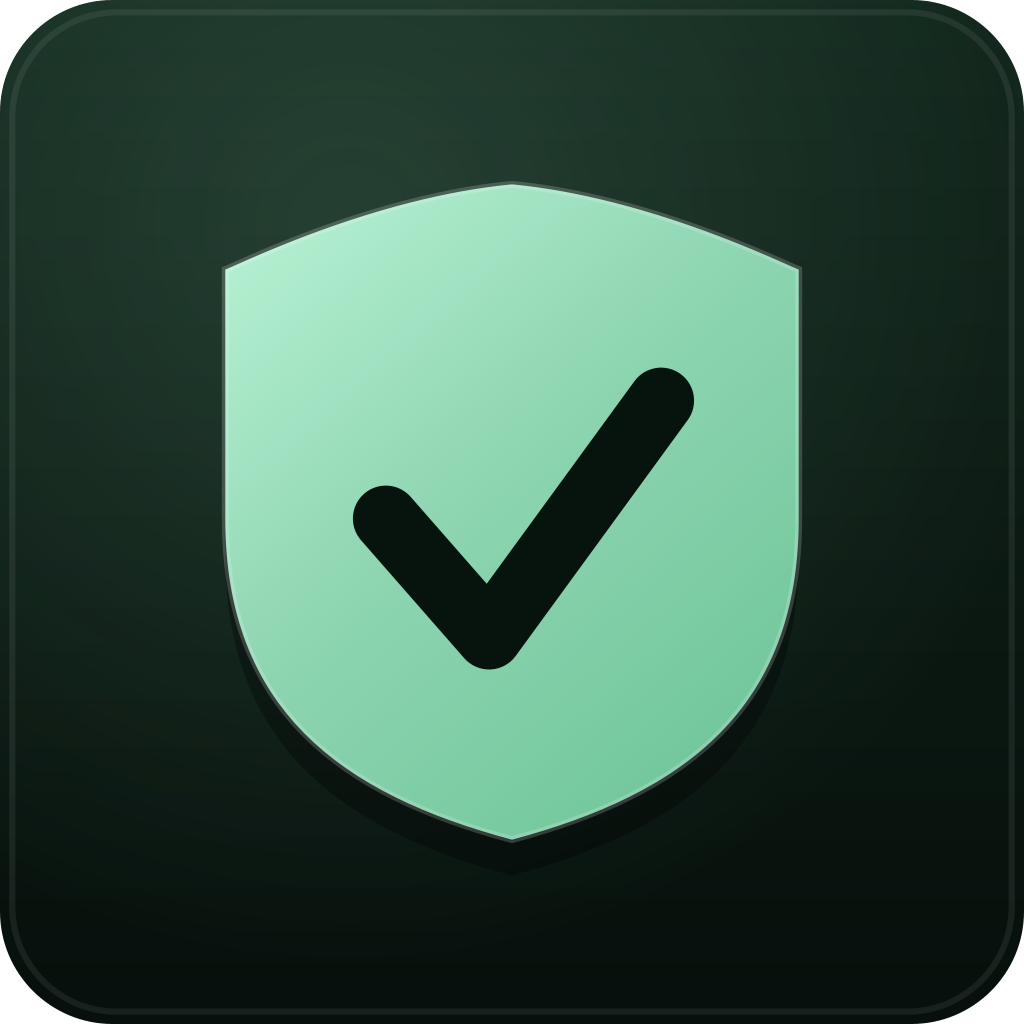
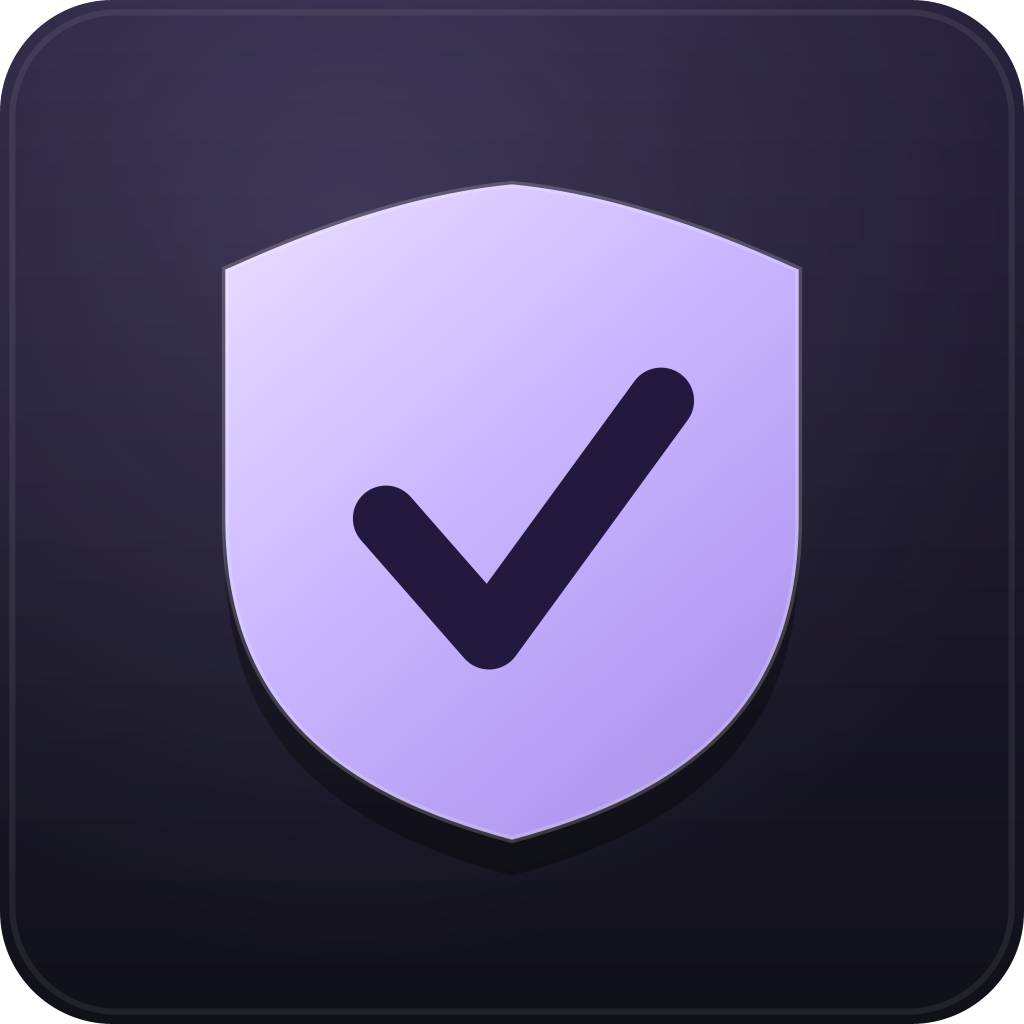
Unify Android and desktop dark themes with the dashboard

diff --git a/src/com/dino/holeshield/Ui.java b/src/com/dino/holeshield/Ui.java
@@ -15,7 +15,6 @@ import android.graphics.drawable.Drawable;
 import android.graphics.drawable.GradientDrawable;
 import android.graphics.drawable.LayerDrawable;
 import android.graphics.drawable.StateListDrawable;
-import android.os.Build;
 import android.util.TypedValue;
 import android.view.Gravity;
 import android.view.View;
@@ -30,43 +29,40 @@ import android.widget.Toast;
 /**
  * Small helpers for the programmatic, D-pad and touch UI.
  *
- * The colour tokens follow Material 3. On Android 12+ they are taken from the
- * system's dynamic ("Material You") tonal palettes; older devices use a dark
- * Material 3 scheme generated from the Hole Shield green seed colour. The app is
- * deliberately always dark and keeps the same visual language on TV and phone.
+ * Material 3 roles with fixed palettes for consistent phone and TV styling.
  */
 final class Ui {
 
-    // Material 3 dark scheme generated from the Hole Shield seed colour #34D399.
-    private static final int F_PRIMARY = 0xFF8ED5B2;
-    private static final int F_ON_PRIMARY = 0xFF003825;
-    private static final int F_PRIMARY_CONTAINER = 0xFF005137;
-    private static final int F_ON_PRIMARY_CONTAINER = 0xFFA9F2CD;
-    private static final int F_SECONDARY = 0xFFB4CCBD;
-    private static final int F_ON_SECONDARY = 0xFF1F352A;
-    private static final int F_SECONDARY_CONTAINER = 0xFF364B40;
-    private static final int F_ON_SECONDARY_CONTAINER = 0xFFCFE9D9;
-    private static final int F_TERTIARY = 0xFFA5CCDE;
-    private static final int F_ON_TERTIARY = 0xFF073543;
-    private static final int F_TERTIARY_CONTAINER = 0xFF244C5A;
-    private static final int F_ON_TERTIARY_CONTAINER = 0xFFC1E9FB;
-    private static final int F_ERROR = 0xFFFFB4AB;
-    private static final int F_ON_ERROR = 0xFF690005;
-    private static final int F_ERROR_CONTAINER = 0xFF93000A;
-    private static final int F_ON_ERROR_CONTAINER = 0xFFFFDAD6;
-    private static final int F_SURFACE = 0xFF0F1511;
-    private static final int F_ON_SURFACE = 0xFFDEE4DE;
-    private static final int F_SURFACE_VARIANT = 0xFF404943;
-    private static final int F_ON_SURFACE_VARIANT = 0xFFBFC9C1;
-    private static final int F_SURFACE_LOWEST = 0xFF0A0F0C;
-    private static final int F_SURFACE_LOW = 0xFF171D19;
-    private static final int F_SURFACE_CONTAINER = 0xFF1B211D;
-    private static final int F_SURFACE_HIGH = 0xFF252B28;
-    private static final int F_SURFACE_HIGHEST = 0xFF303632;
-    private static final int F_OUTLINE = 0xFF8A938C;
-    private static final int F_OUTLINE_VARIANT = 0xFF404943;
+    // Graphite and violet dark palette, also used by the web dashboard.
+    private static final int F_PRIMARY = 0xFFC9B5FF;
+    private static final int F_ON_PRIMARY = 0xFF23183D;
+    private static final int F_PRIMARY_CONTAINER = 0xFF35275C;
+    private static final int F_ON_PRIMARY_CONTAINER = 0xFFEADFFF;
+    private static final int F_SECONDARY = 0xFFA7BFFF;
+    private static final int F_ON_SECONDARY = 0xFF152544;
+    private static final int F_SECONDARY_CONTAINER = 0xFF222F52;
+    private static final int F_ON_SECONDARY_CONTAINER = 0xFFDBE5FF;
+    private static final int F_TERTIARY = 0xFFF5C98B;
+    private static final int F_ON_TERTIARY = 0xFF422905;
+    private static final int F_TERTIARY_CONTAINER = 0xFF493019;
+    private static final int F_ON_TERTIARY_CONTAINER = 0xFFFFDDB1;
+    private static final int F_ERROR = 0xFFFFACA9;
+    private static final int F_ON_ERROR = 0xFF551A24;
+    private static final int F_ERROR_CONTAINER = 0xFF4F212F;
+    private static final int F_ON_ERROR_CONTAINER = 0xFFFFD9D7;
+    private static final int F_SURFACE = 0xFF11111A;
+    private static final int F_ON_SURFACE = 0xFFF2EDF9;
+    private static final int F_SURFACE_VARIANT = 0xFF2C2B3D;
+    private static final int F_ON_SURFACE_VARIANT = 0xFFBDB7CC;
+    private static final int F_SURFACE_LOWEST = 0xFF0D0D14;
+    private static final int F_SURFACE_LOW = 0xFF15151F;
+    private static final int F_SURFACE_CONTAINER = 0xFF191923;
+    private static final int F_SURFACE_HIGH = 0xFF202031;
+    private static final int F_SURFACE_HIGHEST = 0xFF29293D;
+    private static final int F_OUTLINE = 0xFF938AA9;
+    private static final int F_OUTLINE_VARIANT = 0xFF36334A;
 
-    // Material 3 light scheme generated from the same seed.
+    // Keep the existing Material 3 light scheme.
     private static final int L_PRIMARY = 0xFF1B7F5C;
     private static final int L_ON_PRIMARY = 0xFFFFFFFF;
     private static final int L_PRIMARY_CONTAINER = 0xFFA9F2CD;
@@ -138,7 +134,6 @@ final class Ui {
     static int AMBER;       // tertiary / paused
     static int RED;         // error
 
-    private static String paletteKey = "";
     /** True when the current palette is dark. */
     static boolean dark = true;
 
@@ -146,7 +141,7 @@ final class Ui {
     static boolean compact = false;
 
     static {
-        setFallback();
+        setDark();
     }
 
     private Ui() { }
@@ -155,7 +150,7 @@ final class Ui {
         compact = on;
     }
 
-    private static void setFallback() {
+    private static void setDark() {
         PRIMARY = F_PRIMARY;
         ON_PRIMARY = F_ON_PRIMARY;
         PRIMARY_CONTAINER = F_PRIMARY_CONTAINER;
@@ -237,98 +232,12 @@ final class Ui {
      * Loads the current Material 3 palette. Returns true when the palette
      * differs from the one already applied to this process.
      */
-    static boolean init(Context c, boolean darkMode) {
-        if (!darkMode) {
-            boolean changed = !"light".equals(paletteKey);
-            setLight();
-            dark = false;
-            paletteKey = "light";
-            return changed;
-        }
-        dark = true;
-        // Dynamic colours are used for the accents; surfaces and text stay on
-        // the fixed dark Material 3 palette.
-        int primaryLight = systemColor(c, "system_accent1_200", F_PRIMARY);
-        int primaryDark = systemColor(c, "system_accent1_800", F_ON_PRIMARY);
-        int primary = lighter(primaryLight, primaryDark);
-        int onPrimary = darker(primaryLight, primaryDark);
-
-        int secondaryLight = systemColor(c, "system_accent2_200", F_SECONDARY);
-        int secondaryDark = systemColor(c, "system_accent2_800", F_ON_SECONDARY);
-        int secondary = lighter(secondaryLight, secondaryDark);
-        int onSecondary = darker(secondaryLight, secondaryDark);
-
-        int tertiaryLight = systemColor(c, "system_accent3_200", F_TERTIARY);
-        int tertiaryDark = systemColor(c, "system_accent3_800", F_ON_TERTIARY);
-        int tertiary = lighter(tertiaryLight, tertiaryDark);
-        int onTertiary = darker(tertiaryLight, tertiaryDark);
-
-        int errorLight = systemColor(c, "system_error_200", F_ERROR);
-        int errorDark = systemColor(c, "system_error_800", F_ON_ERROR);
-        int error = lighter(errorLight, errorDark);
-        int onError = darker(errorLight, errorDark);
-
-        int surface = F_SURFACE;
-        int onSurface = F_ON_SURFACE;
-
-        String key = "dark:" + Integer.toHexString(primary) + ':'
-                + Integer.toHexString(secondary) + ':'
-                + Integer.toHexString(tertiary) + ':'
-                + Integer.toHexString(error) + ':'
-                + Integer.toHexString(surface) + ':'
-                + Integer.toHexString(onSurface);
-        boolean changed = !key.equals(paletteKey);
-
-        PRIMARY = primary;
-        ON_PRIMARY = onPrimary;
-        PRIMARY_CONTAINER = onPrimary;
-        ON_PRIMARY_CONTAINER = primary;
-        SECONDARY = secondary;
-        ON_SECONDARY = onSecondary;
-        SECONDARY_CONTAINER = onSecondary;
-        ON_SECONDARY_CONTAINER = secondary;
-        TERTIARY = tertiary;
-        ON_TERTIARY = onTertiary;
-        TERTIARY_CONTAINER = onTertiary;
-        ON_TERTIARY_CONTAINER = tertiary;
-        ERROR = error;
-        ON_ERROR = onError;
-        ERROR_CONTAINER = onError;
-        ON_ERROR_CONTAINER = error;
-        SURFACE = surface;
-        ON_SURFACE = onSurface;
-        SURFACE_VARIANT = F_SURFACE_VARIANT;
-        ON_SURFACE_VARIANT = F_ON_SURFACE_VARIANT;
-        SURFACE_CONTAINER_LOWEST = F_SURFACE_LOWEST;
-        SURFACE_CONTAINER_LOW = F_SURFACE_LOW;
-        SURFACE_CONTAINER = F_SURFACE_CONTAINER;
-        SURFACE_CONTAINER_HIGH = F_SURFACE_HIGH;
-        SURFACE_CONTAINER_HIGHEST = F_SURFACE_HIGHEST;
-        OUTLINE = F_OUTLINE;
-        OUTLINE_VARIANT = F_OUTLINE_VARIANT;
-        syncAliases();
-        paletteKey = key;
-        return changed;
-    }
-
-    private static int lighter(int a, int b) {
-        return Color.luminance(a) >= Color.luminance(b) ? a : b;
-    }
-
-    private static int darker(int a, int b) {
-        return Color.luminance(a) <= Color.luminance(b) ? a : b;
-    }
-
-    private static int systemColor(Context c, String name, int fallback) {
-        if (Build.VERSION.SDK_INT < 31 || c == null) return fallback;
-        try {
-            int id = c.getResources().getIdentifier(name, "color", "android");
-            if (id == 0) return fallback;
-            int color = c.getColor(id);
-            return Color.alpha(color) == 0xFF ? color : fallback;
-        } catch (Exception ignored) {
-            return fallback;
-        }
+    static boolean init(boolean darkMode) {
+        if (dark == darkMode) return false;
+        if (darkMode) setDark();
+        else setLight();
+        dark = darkMode;
+        return true;
     }
 
     static int dp(Context c, float value) {

diff --git a/tools/IconDesigner.java b/tools/IconDesigner.java
@@ -18,11 +18,12 @@ import java.io.File;
  */
 public final class IconDesigner {
 
-    private static final Color BG_TOP = new Color(0x12261C);
-    private static final Color BG_BOTTOM = new Color(0x07100C);
-    private static final Color MINT_TOP = new Color(0xB9F4D6);
-    private static final Color MINT_BOTTOM = new Color(0x69C295);
-    private static final Color INK = new Color(0x07130D);
+    private static final Color BG_TOP = new Color(0x26203A);
+    private static final Color BG_BOTTOM = new Color(0x11111A);
+    private static final Color VIOLET_TOP = new Color(0xEADFFF);
+    private static final Color VIOLET = new Color(0xC9B5FF);
+    private static final Color VIOLET_BOTTOM = new Color(0xA68BE9);
+    private static final Color INK = new Color(0x23183D);
 
     private IconDesigner() { }
 
@@ -58,8 +59,7 @@ public final class IconDesigner {
         g.setClip(background);
         g.setPaint(new RadialGradientPaint(new Point2D.Double(s * 0.34, s * 0.22),
                 s * 0.72f, new float[]{0f, 1f},
-                new Color[]{new Color(142, 213, 178, 44),
-                        new Color(142, 213, 178, 0)}));
+                new Color[]{violetGlow(44), violetGlow(0)}));
         g.fillRect(0, 0, size, size);
         g.setClip(null);
 
@@ -95,7 +95,7 @@ public final class IconDesigner {
         g.setPaint(new LinearGradientPaint((float) (cx - w / 2), (float) (cy - h / 2),
                 (float) (cx + w / 2), (float) (cy + h / 2),
                 new float[]{0f, 0.45f, 1f},
-                new Color[]{MINT_TOP, new Color(0x8ED5B2), MINT_BOTTOM}));
+                new Color[]{VIOLET_TOP, VIOLET, VIOLET_BOTTOM}));
         g.fill(shield);
 
         g.setColor(new Color(255, 255, 255, 46));
@@ -141,32 +141,35 @@ public final class IconDesigner {
         Graphics2D g = graphics(image);
         g.setPaint(new LinearGradientPaint(0, 0, w, h,
                 new float[]{0f, 1f},
-                new Color[]{new Color(0x0F1C16), new Color(0x07100C)}));
+                new Color[]{BG_TOP, BG_BOTTOM}));
         g.fillRect(0, 0, w, h);
         g.setPaint(new RadialGradientPaint(new Point2D.Double(120, 40), 300,
                 new float[]{0f, 1f},
-                new Color[]{new Color(142, 213, 178, 34),
-                        new Color(142, 213, 178, 0)}));
+                new Color[]{violetGlow(34), violetGlow(0)}));
         g.fillRect(0, 0, w, h);
 
         BufferedImage icon = resize(master(512), 190);
         g.drawImage(icon, 38, 85, null);
 
-        g.setColor(new Color(0xE8F3EC));
+        g.setColor(new Color(0xF2EDF9));
         g.setFont(new Font("SansSerif", Font.BOLD, 52));
         g.drawString("HOLE SHIELD", 252, 170);
-        g.setColor(new Color(0x8ED5B2));
+        g.setColor(VIOLET);
         g.setFont(new Font("SansSerif", Font.BOLD, 24));
         g.drawString("TV · DNS FILTER", 255, 212);
-        g.setColor(new Color(0x93A89C));
+        g.setColor(new Color(0xBDB7CC));
         g.setFont(new Font("SansSerif", Font.PLAIN, 17));
         g.drawString("BLOCK ADS · TRACKERS · TELEMETRY", 255, 247);
 
-        g.setColor(new Color(142, 213, 178, 90));
+        g.setColor(violetGlow(90));
         g.setStroke(new BasicStroke(2f));
         g.drawLine(255, 270, 588, 270);
         g.dispose();
         return image;
+    }
+
+    private static Color violetGlow(int alpha) {
+        return new Color(VIOLET.getRed(), VIOLET.getGreen(), VIOLET.getBlue(), alpha);
     }
 
     private static Graphics2D graphics(BufferedImage image) {

diff --git a/desktop/src/com/dino/holeshield/Theme.java b/desktop/src/com/dino/holeshield/Theme.java
@@ -44,27 +44,27 @@ final class Theme {
     private Theme(boolean dark) {
         this.dark = dark;
         if (dark) {
-            bg = new Color(0x0A0F0C);
-            surface = new Color(0x0F1512);
-            surfaceAlt = new Color(0x141C17);
-            card = new Color(0x121A15);
-            cardHover = new Color(0x1A251D);
-            border = new Color(0x23302A);
-            text = new Color(0xE9F1EC);
-            muted = new Color(0x93A69A);
-            faint = new Color(0x6D8175);
-            accent = new Color(0x3DDC97);
-            accentAlt = new Color(0x2AC98A);
-            onAccent = new Color(0x04241A);
-            accentSoft = new Color(0x132F23);
-            onAccentSoft = new Color(0xA7F3CE);
-            danger = new Color(0xFF9E93);
-            dangerSoft = new Color(0x3D1E1A);
-            success = new Color(0x3DDC97);
-            warn = new Color(0xF2CE7A);
-            track = new Color(0x1B2620);
+            bg = new Color(0x0D0D14);
+            surface = new Color(0x11111A);
+            surfaceAlt = new Color(0x202031);
+            card = new Color(0x191923);
+            cardHover = new Color(0x29293D);
+            border = new Color(0x36334A);
+            text = new Color(0xF2EDF9);
+            muted = new Color(0xBDB7CC);
+            faint = new Color(0xA79DBB);
+            accent = new Color(0xC9B5FF);
+            accentAlt = new Color(0xA7BFFF);
+            onAccent = new Color(0x23183D);
+            accentSoft = new Color(0x35275C);
+            onAccentSoft = new Color(0xEADFFF);
+            danger = new Color(0xFFACA9);
+            dangerSoft = new Color(0x4F212F);
+            success = accent;
+            warn = new Color(0xF5C98B);
+            track = new Color(0x2C2B3D);
             shadow = new Color(0, 0, 0, 96);
-            selection = new Color(0x3DDC97, false);
+            selection = accentSoft;
         } else {
             bg = new Color(0xF5F8F6);
             surface = new Color(0xFFFFFF);

diff --git a/src/com/dino/holeshield/MainActivity.java b/src/com/dino/holeshield/MainActivity.java
@@ -172,7 +172,7 @@ public class MainActivity extends Activity {
                 ? ActivityInfo.SCREEN_ORIENTATION_LANDSCAPE
                 : ActivityInfo.SCREEN_ORIENTATION_UNSPECIFIED);
         prefs = Prefs.load(this);
-        Ui.init(this, prefs.darkTheme(this));
+        Ui.init(prefs.darkTheme(this));
         getWindow().setBackgroundDrawable(new ColorDrawable(Ui.BG));
         vpnConsentNeeded = VpnService.prepare(this) != null;
         if (!DnsVpnService.running && !DnsVpnService.starting) {
@@ -593,7 +593,7 @@ public class MainActivity extends Activity {
         isTv = isTelevision(this);
         Ui.setCompact(!isTv);
         prefs = Prefs.load(this);
-        if (Ui.init(this, prefs.darkTheme(this)) && root != null) {
+        if (Ui.init(prefs.darkTheme(this)) && root != null) {
             setContentView(createShell());
             show(screen);
         }
@@ -637,7 +637,7 @@ public class MainActivity extends Activity {
                 ? ActivityInfo.SCREEN_ORIENTATION_LANDSCAPE
                 : ActivityInfo.SCREEN_ORIENTATION_UNSPECIFIED);
         prefs = Prefs.load(this);
-        Ui.init(this, prefs.darkTheme(this));
+        Ui.init(prefs.darkTheme(this));
         if (root != null) {
             setContentView(createShell());
             show(screen);
@@ -3097,7 +3097,7 @@ public class MainActivity extends Activity {
     private void setThemeMode(int which) {
         prefs.theme = which == 1 ? "dark" : which == 2 ? "light" : "system";
         prefs.save(this);
-        Ui.init(this, prefs.darkTheme(this));
+        Ui.init(prefs.darkTheme(this));
         getWindow().setBackgroundDrawable(new ColorDrawable(Ui.BG));
         setContentView(createShell());
         show(Screen.SETTINGS);
